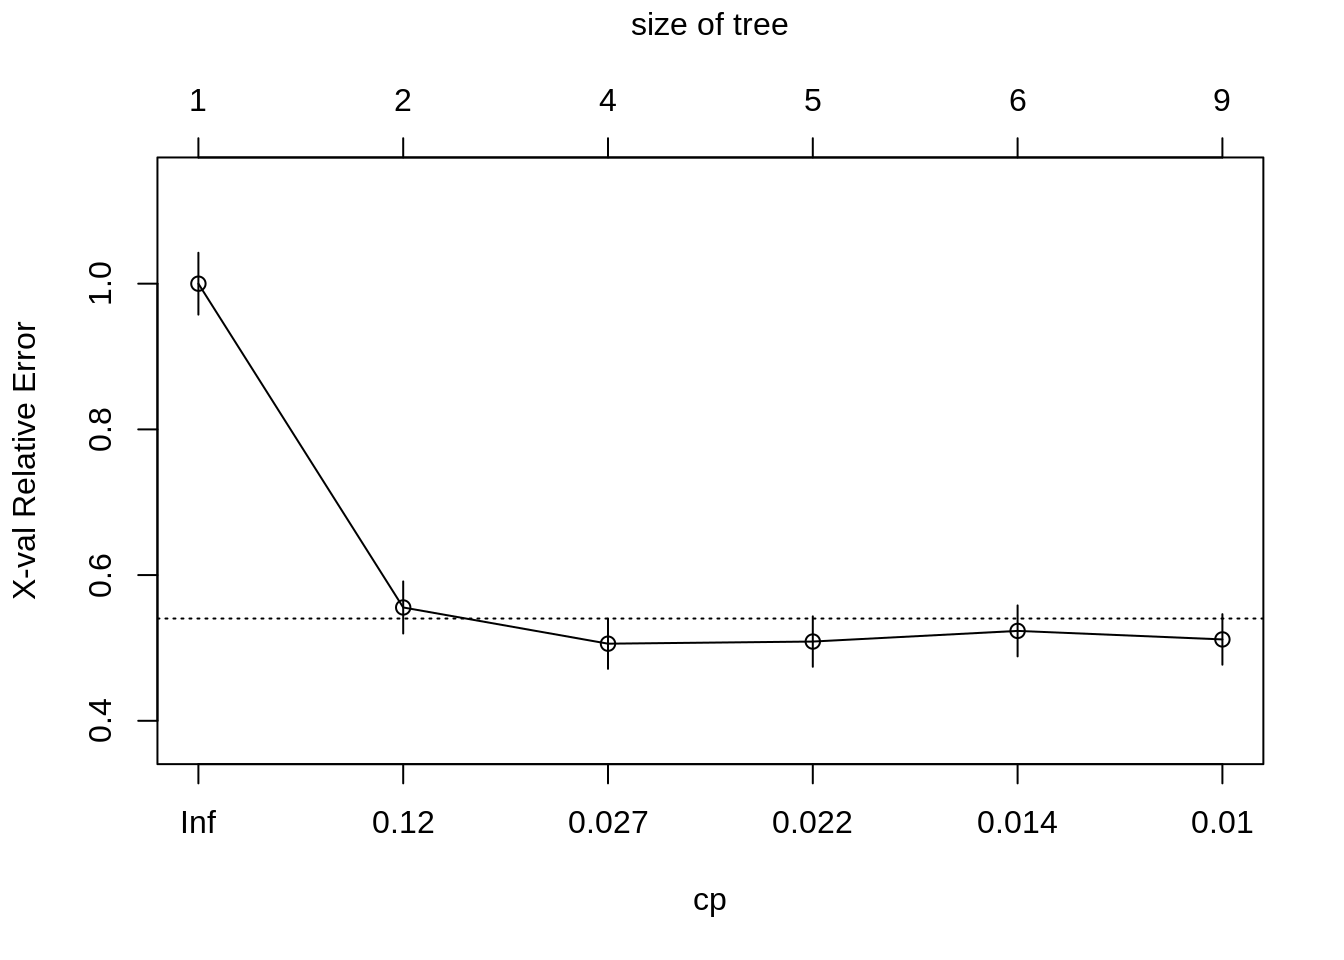
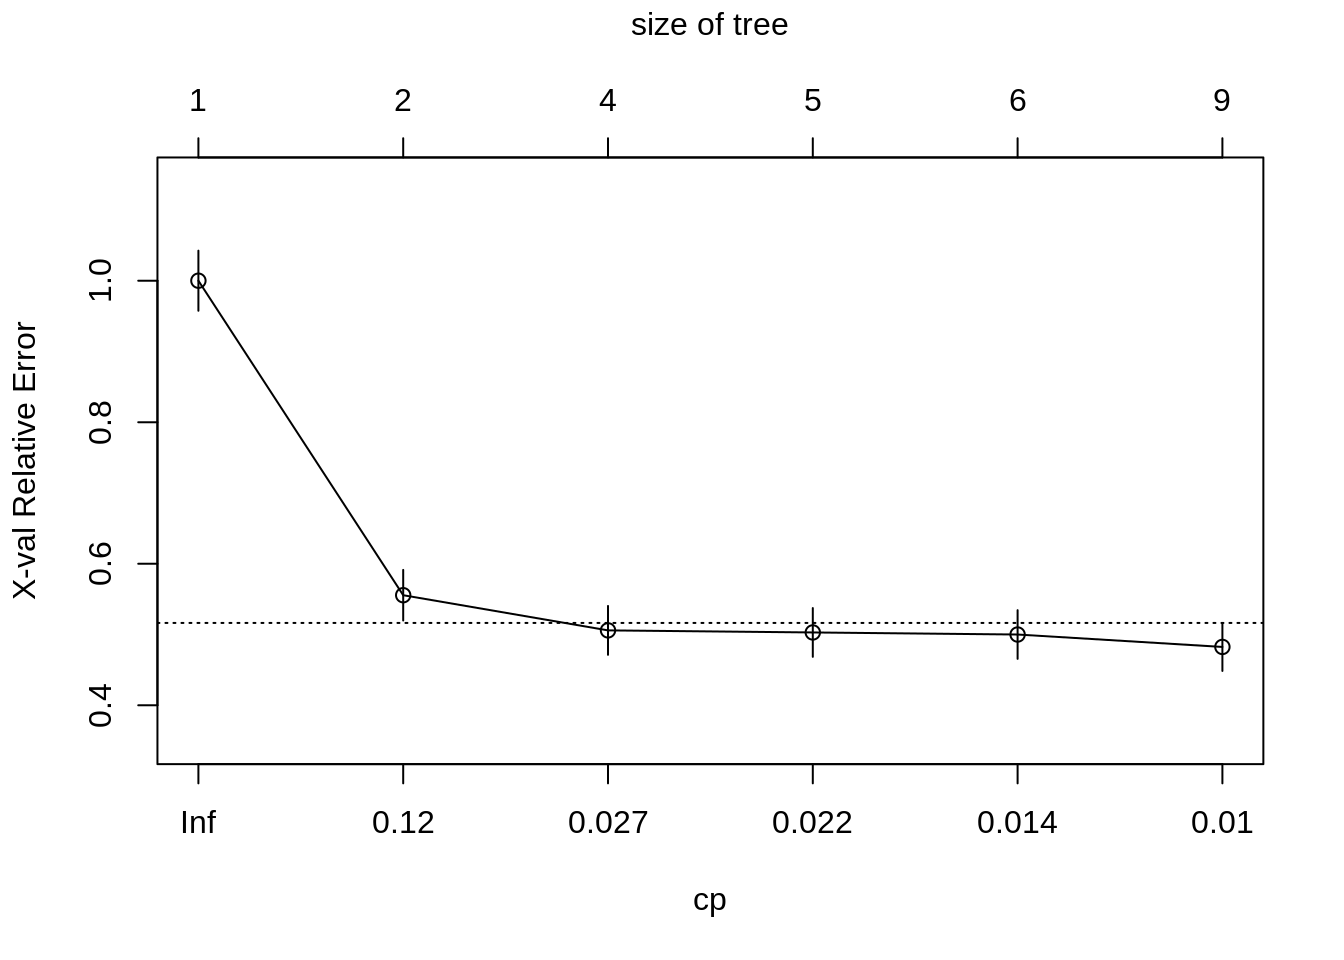
Deploy lebebr01/stat_thinking to github.com/lebebr01/stat_thinking.git:master

diff --git a/docs/classification.html b/docs/classification.html
@@ -325,9 +325,9 @@ titanic &lt;-<span class="st"> </span><span class="kw">bind_rows</span>(titanic_
 ## 1 0.444444      0   1.00000 1.00000 0.042446
 ## 2 0.030702      1   0.55556 0.55556 0.035750
 ## 3 0.023392      3   0.49415 0.50585 0.034524
-## 4 0.020468      4   0.47076 0.50877 0.034599
-## 5 0.010234      5   0.45029 0.52339 0.034970
-## 6 0.010000      8   0.41813 0.51170 0.034675</code></pre>
+## 4 0.020468      4   0.47076 0.50292 0.034448
+## 5 0.010234      5   0.45029 0.50000 0.034372
+## 6 0.010000      8   0.41813 0.48246 0.033904</code></pre>
 <div class="sourceCode"><pre class="sourceCode r"><code class="sourceCode r"><span class="kw">plotcp</span>(class_tree)</code></pre></div>
 <p><img src="05-classification_files/figure-html/unnamed-chunk-6-1.png" width="672" /></p>
 <div class="sourceCode"><pre class="sourceCode r"><code class="sourceCode r">prune_class_tree &lt;-<span class="st"> </span><span class="kw">prune</span>(class_tree, <span class="dt">cp =</span> .<span class="dv">02</span>)

diff --git a/docs/05-classification.md b/docs/05-classification.md
@@ -250,9 +250,9 @@ printcp(class_tree)
 ## 1 0.444444      0   1.00000 1.00000 0.042446
 ## 2 0.030702      1   0.55556 0.55556 0.035750
 ## 3 0.023392      3   0.49415 0.50585 0.034524
-## 4 0.020468      4   0.47076 0.50877 0.034599
-## 5 0.010234      5   0.45029 0.52339 0.034970
-## 6 0.010000      8   0.41813 0.51170 0.034675
+## 4 0.020468      4   0.47076 0.50292 0.034448
+## 5 0.010234      5   0.45029 0.50000 0.034372
+## 6 0.010000      8   0.41813 0.48246 0.033904
 ```
 
 ```r
